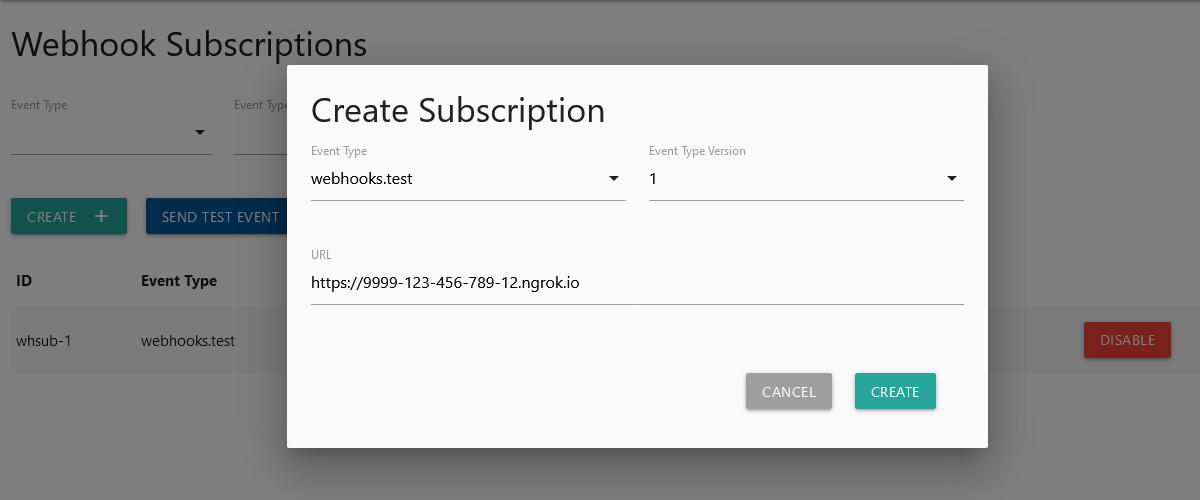
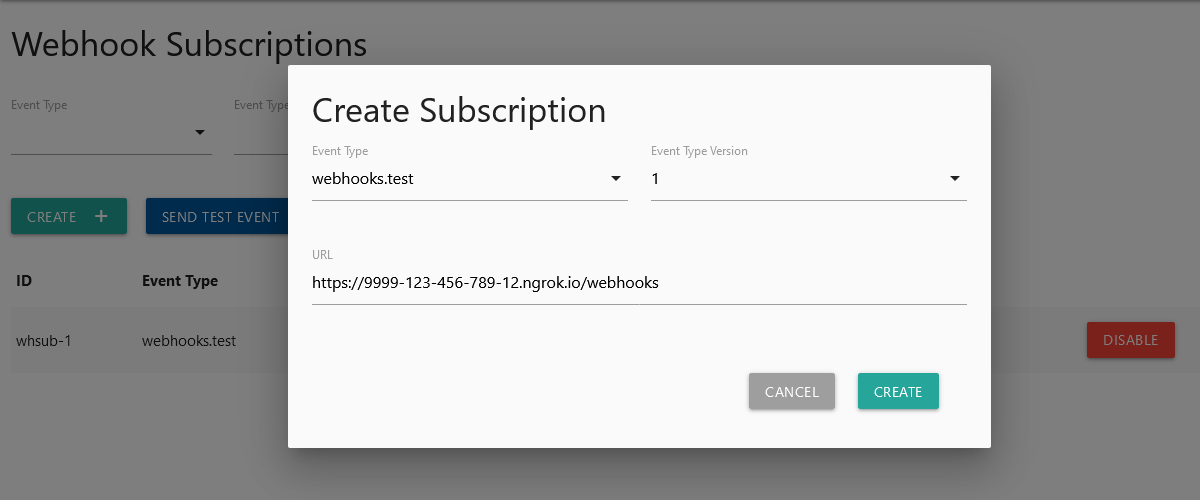
WK2-172 Minor updates from PR comments

diff --git a/docs/webhooks/Getting-Started.md b/docs/webhooks/Getting-Started.md
@@ -18,7 +18,7 @@ Once you’re up and running with ngrok, you’ll need to configure our webhooks
 
   ![Generate a secret in the portal](../../assets/images/webhooks/Generate-Secret.png)
 
-2. Create subscription in the portal, using the HTTPS URL provided by ngrok, e.g. `https://9999-123-456-789-12.ngrok.io`
+2. Create subscription in the portal, using the HTTPS URL provided by ngrok, ensuring you specify the path that your application has been set up on e.g. `https://9999-123-456-789-12.ngrok.io/webhooks`
 
   ![Create a subscription](../../assets/images/webhooks/Create-Subscription1.png)
   
@@ -31,13 +31,13 @@ The request will be sent to your local application via ngrok, where you can:
 
 ### 1. Handle the event
 
-Receive the POST request on your HTTPS endpoint
+Receive the POST request on your HTTPS endpoint.
 
 ### 2. Check the signature
 
-On every webhook request there is a header called `X-Webhook-Signature`. It is composed of a timestamp and upto two HMACs
+On every webhook request there is a header called `X-Webhook-Signature`. It is composed of a timestamp and one or more HMACs.
 
-First you'll need to split the header down into its component pieces using comma (`,`) as a delimiter. The timestamp can be identified by the `t=` prefix. The HMACs can be identified by a scheme prefix, e.g. `v1=`. Note that if you have generate multiple secrets you might need to compare against more than one HMAC.
+First you'll need to split the header down into its component pieces using comma (`,`) as a delimiter. The timestamp can be identified by the `t=` prefix. The HMACs can be identified by a scheme prefix, e.g. `v1=`. Note that if you have multiple secrets you might need to compare against more than one HMAC.
 
 Next you'll need to take the body of the webhook request and concatenate the value of the timestamp element to the end.
 Compute the HMAC with SHA-256 as the hash function, using your secret as the key, and the output from the previous step as the message. Encode the genereated HMAC in base64.
@@ -53,4 +53,4 @@ You may wish to return another status code, e.g. 401, if the signature check fai
 
 ### 4. Perform any business logic based on the new information you have received
 
-The rest is up to you!
+We recommend that you perform any actions only once you have responded to the webhook, as you'll need to respond promptly to ensure the webhook request does not time out. The The rest is up to you!

diff --git a/docs/webhooks/Testing.md b/docs/webhooks/Testing.md
@@ -19,7 +19,7 @@ It does not contain any information pertaining to a resource, just the following
 }
 ```
 
-Note that if this is triggered from our portal, the payload will be as follows:
+Note that if this is triggered from our portal, the payload will be:
 
 ```json
 “payload”: {
